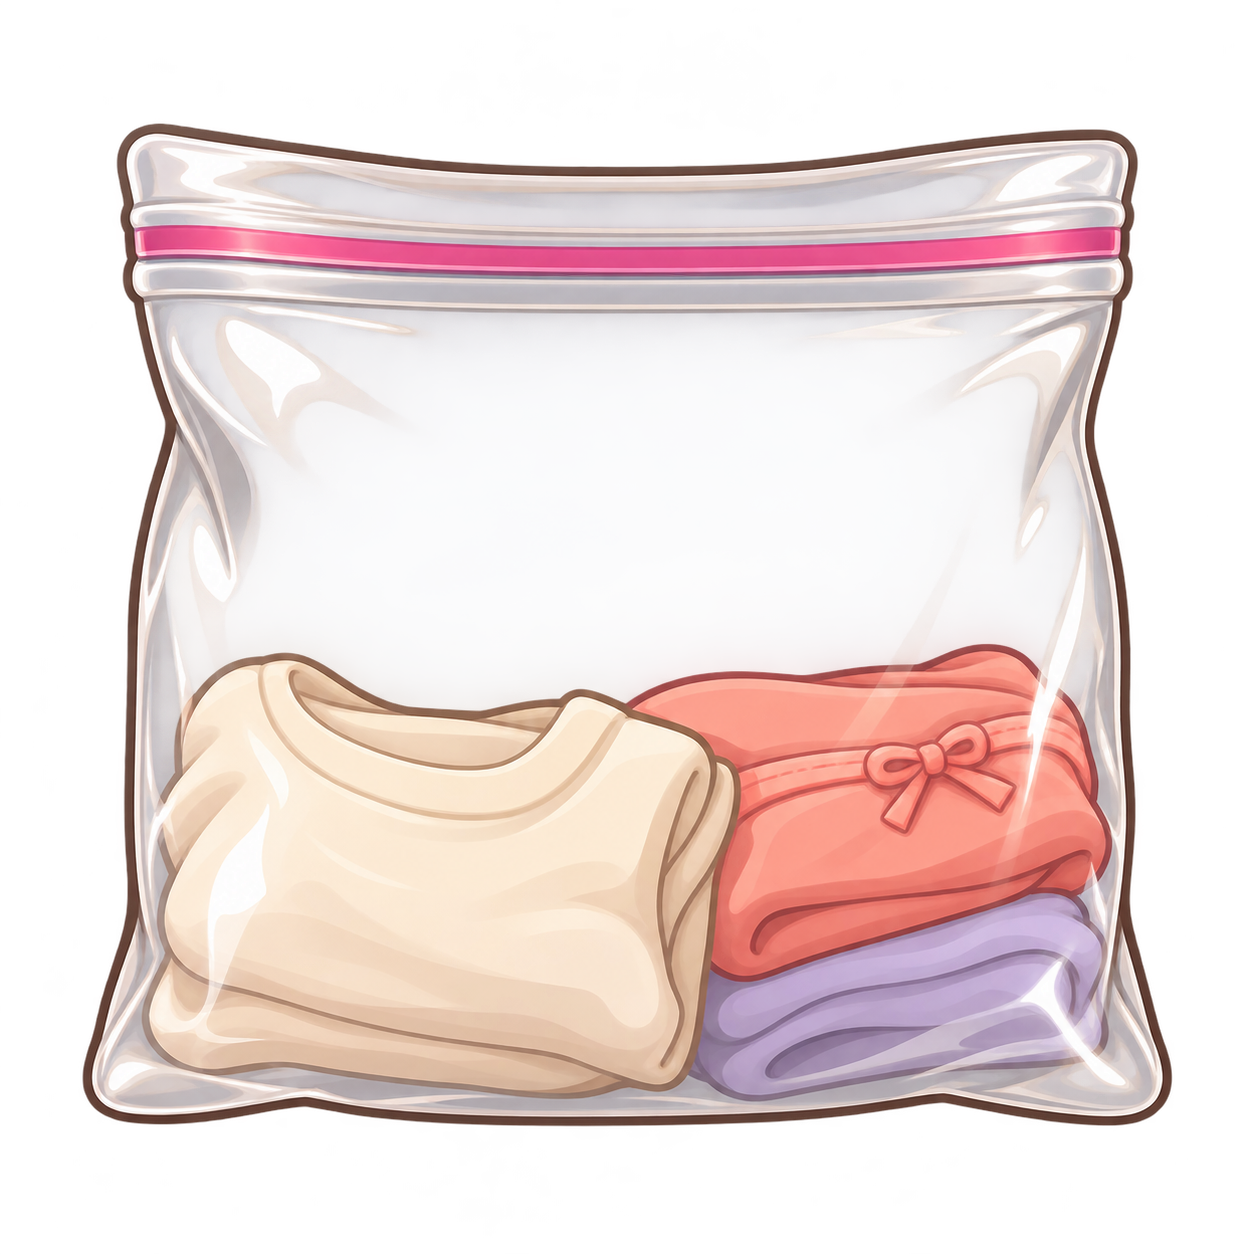
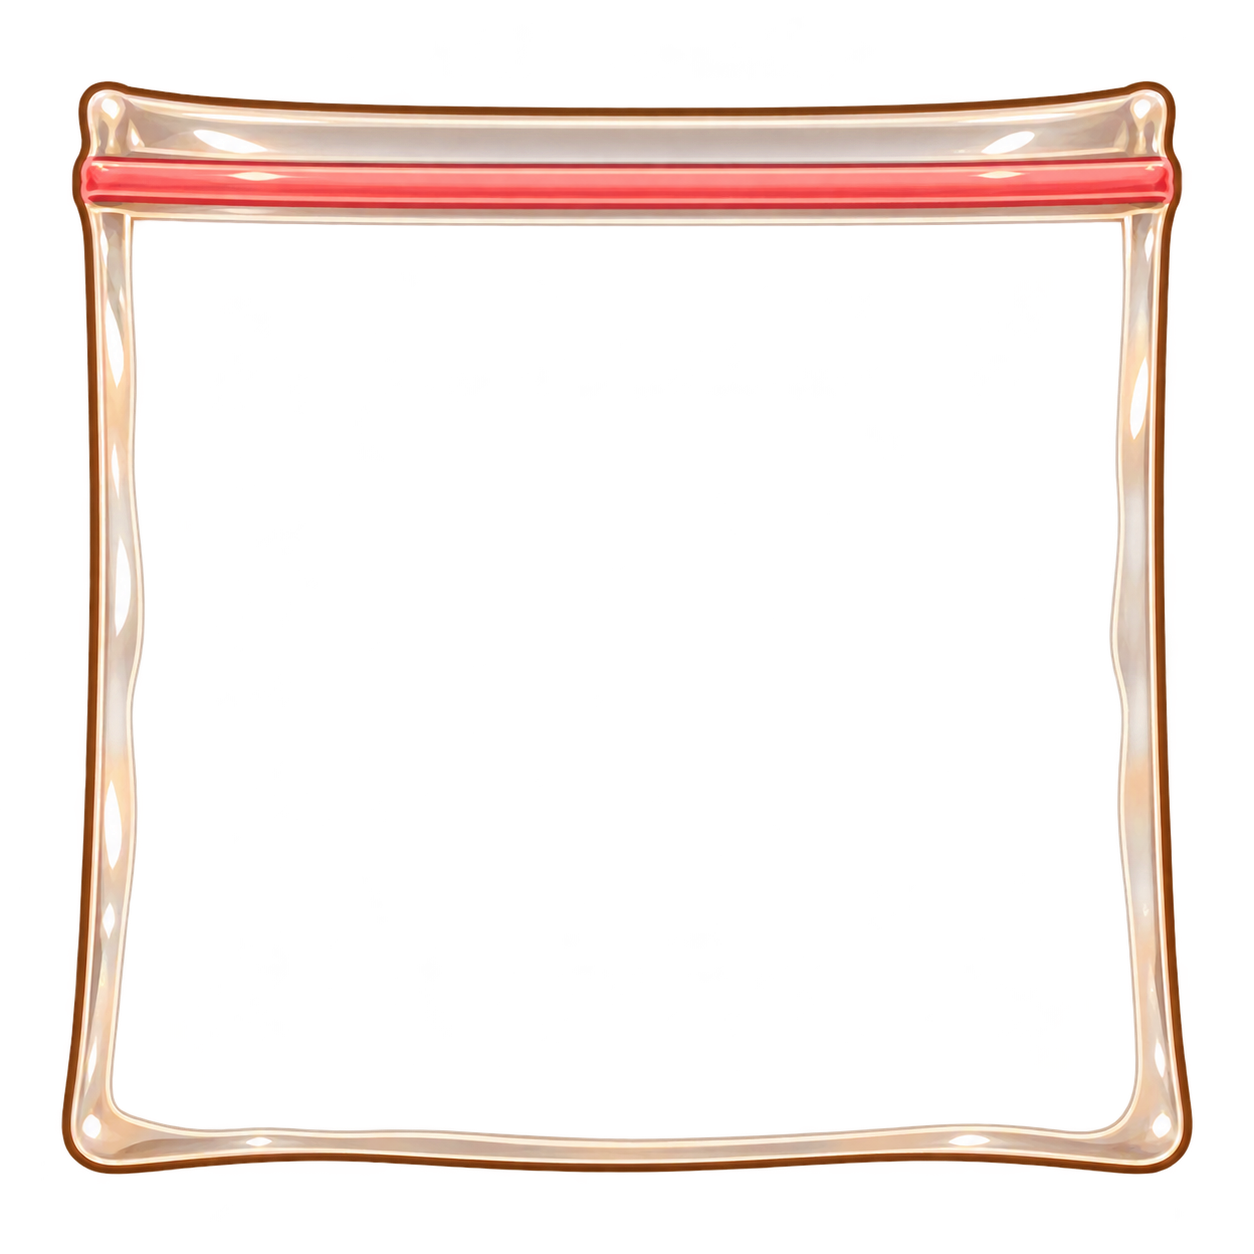
fix: make blocker zip bag empty and fit underlay

diff --git a/src/match3BlockerReadability.css b/src/match3BlockerReadability.css
@@ -5,15 +5,19 @@
 }
 
 /* The zip-bag asset carries its own silhouette; CSS must not draw a second bag. */
+.board-cell:has(.blocker[data-style="solid"]) .tile-stack {
+  scale: .68;
+}
+
 .board-cell:has(.blocker[data-style="solid"]) .blocker img {
-  opacity: .55;
+  opacity: .84;
   filter: none;
 }
 
 /* One remaining layer reads as visibly worn; two layers retain the stronger
    silhouette. This is presentation only and never drives blocker mechanics. */
 .board-cell:has(.blocker[data-style="solid"][data-layers="1"]) .blocker img {
-  opacity: .38;
+  opacity: .68;
   filter: none;
 }
 

diff --git a/tests/Match3BlockerReadability.test.ts b/tests/Match3BlockerReadability.test.ts
@@ -12,6 +12,7 @@ describe('Match-3 blocker readability', () => {
     expect(css).toContain('obstacle_soap_foam');
     expect(blockerPresentation.solid.asset).toBe('./assets/match3/obstacle_zip_bag.png');
     expect(blockerPresentation.locked.asset).toBe('./assets/match3/obstacle_locked_cell_redraw.png');
+    expect(css).toContain('scale: .68;');
     expect(css).not.toContain('.blocker::before');
     expect(css).not.toContain('.blocker::after');
     expect(css).toContain('.board-cell:has(.blocker[data-style="locked"][data-layers="1"])');

diff --git a/docs/features/G5B_BLOCKER_ART_REDESIGN_RU.md b/docs/features/G5B_BLOCKER_ART_REDESIGN_RU.md
@@ -6,10 +6,12 @@ The first integrated phone retest accepted removal of layer numbers and found th
 
 ## Candidate changes
 
-- Replace the box image with `public/assets/match3/obstacle_zip_bag.png` for the shared `solid` presentation used by every campaign level and Level Lab. Remove the former box PNG and CSS pseudo-element bag overlay so only one authored silhouette remains.
+- Replace the box image with an EMPTY zip-bag `public/assets/match3/obstacle_zip_bag.png` for the shared `solid` presentation used by every campaign level and Level Lab. The PNG contains no laundry; its center is fully transparent. Reduce the entire underlying tile stack to 68% so every base tile and any ingredient beneath it fits within the bag's clear window. Specials cannot be created under a blocker because blocked cells are excluded from matching. Remove the former box PNG and CSS pseudo-element bag overlay so only one authored silhouette remains.
 - Replace the locked image with `public/assets/match3/obstacle_locked_cell_redraw.png`. The square cell backing is removed, the padlock is retained and chain runs extend diagonally corner-to-corner.
 - Keep both assets 256×256 RGBA and use real alpha rather than a CSS approximation. Generated source candidates are retained under `docs/art/g5b-blocker-redesign-2026-10-04/raw/`.
 
 ## Acceptance still required
 
-This PR integrates generated candidates, not user-approved final art. On a merged phone build, inspect all solid levels plus representative locked levels at tile size. Confirm the zip bag reads clearly without masking its tile or leaving a ghost outline, and the locked chains span the tile with no unwanted backing square. If either sprite needs adjustment, revise the candidate before closing G5b-PT2-M3-002.
+This PR integrates generated candidates, not user-approved final art. On a merged phone build, inspect all solid levels plus representative locked levels at tile size. Confirm the zip bag is empty, every tile fits completely inside its clear window, it reads clearly without a ghost outline, and the locked chains span the tile with no unwanted backing square. If either sprite needs adjustment, revise the candidate before closing G5b-PT2-M3-002.
+
+The tile stack uses CSS `scale: .68` only beneath a solid blocker. The empty pouch's transparent opening spans approximately 78% of tile width and 70% of tile height; tile and ingredient artwork are scaled to fit that window. Specials cannot occupy blocked cells.

diff --git a/docs/ROADMAP_RU.md b/docs/ROADMAP_RU.md
@@ -62,7 +62,7 @@ Changing the release platform or market scope is a separate product decision, no
 
 ### Latest human Match-3 retest — 2026-10-04
 
-The user confirmed the faster no-match recovery, light camisole readability, and clear special direction cues; the new panties/sports-socks variety and M3_04 H silhouette also read well. Three earlier work items can close: `G5b-PT2-M3-003/004/005`. New follow-ups are active for the solid zip-bag / locked-chain PNGs and explicit foam-layer tutorial wording. Full 9×7 campaign comfort/balance, post-drop geometry, VN scale and the rest of the campaign remain unaccepted until directly observed. See [`G5 playtest follow-up`](reviews/G5_PLAYTEST_FOLLOWUP_2026-10-04.md) and [`release backlog`](RELEASE_BACKLOG_RU.md).
+The user confirmed the faster no-match recovery, light camisole readability, and clear special direction cues; the new panties/sports-socks variety and M3_04 H silhouette also read well. Three earlier work items can close: `G5b-PT2-M3-003/004/005`. New follow-ups are active for an empty zip-bag with the full underlying tile visible, the locked-chain PNG and explicit foam-layer tutorial wording. Full 9×7 campaign comfort/balance, post-drop geometry, VN scale and the rest of the campaign remain unaccepted until directly observed. See [`G5 playtest follow-up`](reviews/G5_PLAYTEST_FOLLOWUP_2026-10-04.md) and [`release backlog`](RELEASE_BACKLOG_RU.md).
 
 ### Completed / stable foundations
 

diff --git a/docs/reviews/G5_PLAYTEST_FOLLOWUP_2026-10-04.md b/docs/reviews/G5_PLAYTEST_FOLLOWUP_2026-10-04.md
@@ -66,7 +66,7 @@ Runtime slices PR #342–#349 merged; все три Browser Gate checks прош
 
 ### Follow-up required
 
-- `KI-008` / `G5b-PT3-M3-ART-001`: M3_01 box has a strange doubled/ghost outline. Replace it with a generated transparent zip-bag PNG throughout production use.
+- `KI-008` / `G5b-PT3-M3-ART-001`: M3_01 box has a strange doubled/ghost outline. Replace it with a generated EMPTY transparent zip-bag PNG throughout production use; user confirmed bag must contain no clothing and every underlay item must fit fully inside the clear window. Underlay stack is reduced to 68% for the current window geometry.
 - `KI-009` / `G5b-PT3-M3-ART-001`: remove the backing square from locked blocker art; run chains corner-to-corner and retain the padlock.
 - `KI-010` / `G5b-PT3-M3-UX-002`: clarify foam damage. Runtime rule: one blocker layer per clear when a cleared cell is the blocker or one orthogonal cell away; diagonal adjacency alone does not count. Localized tutorial wording now names directions and excludes diagonal contact.
 - `G5b-PT2-M3-001`, `G5b-PT2-M3-002`, `G5b-PT2-M3-006`, G5b UI/geometry, VN scale, and full campaign balance stay in review where their acceptance was not directly reported.
